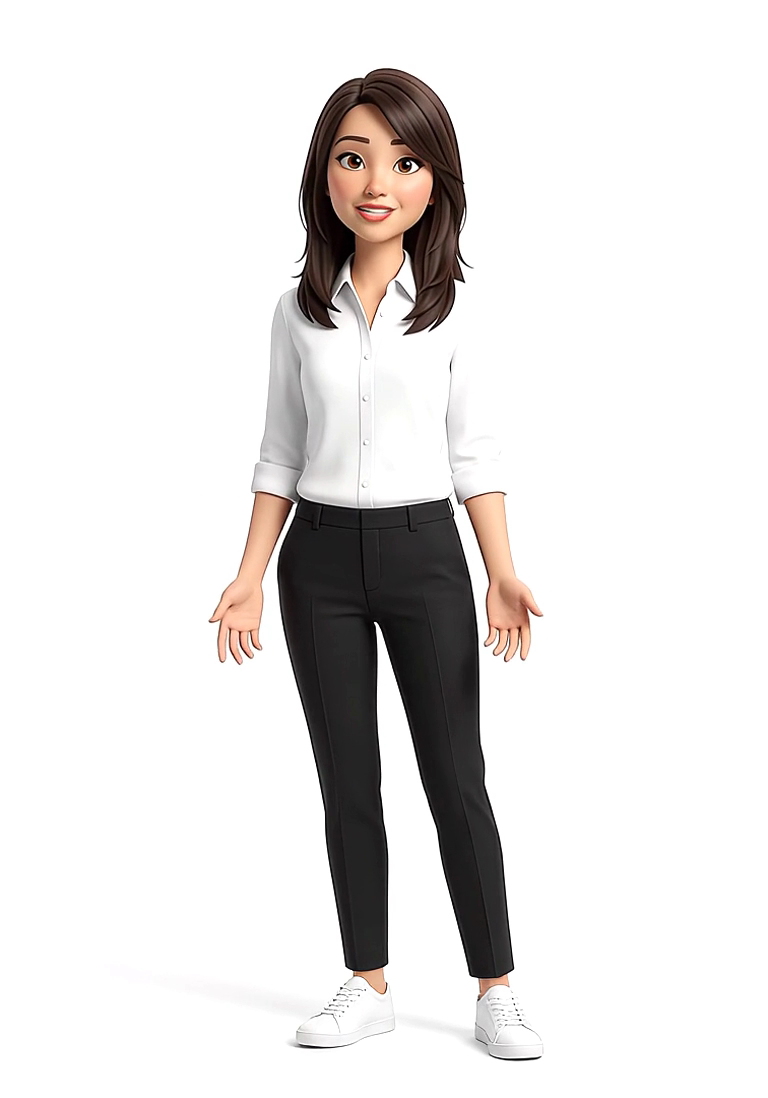
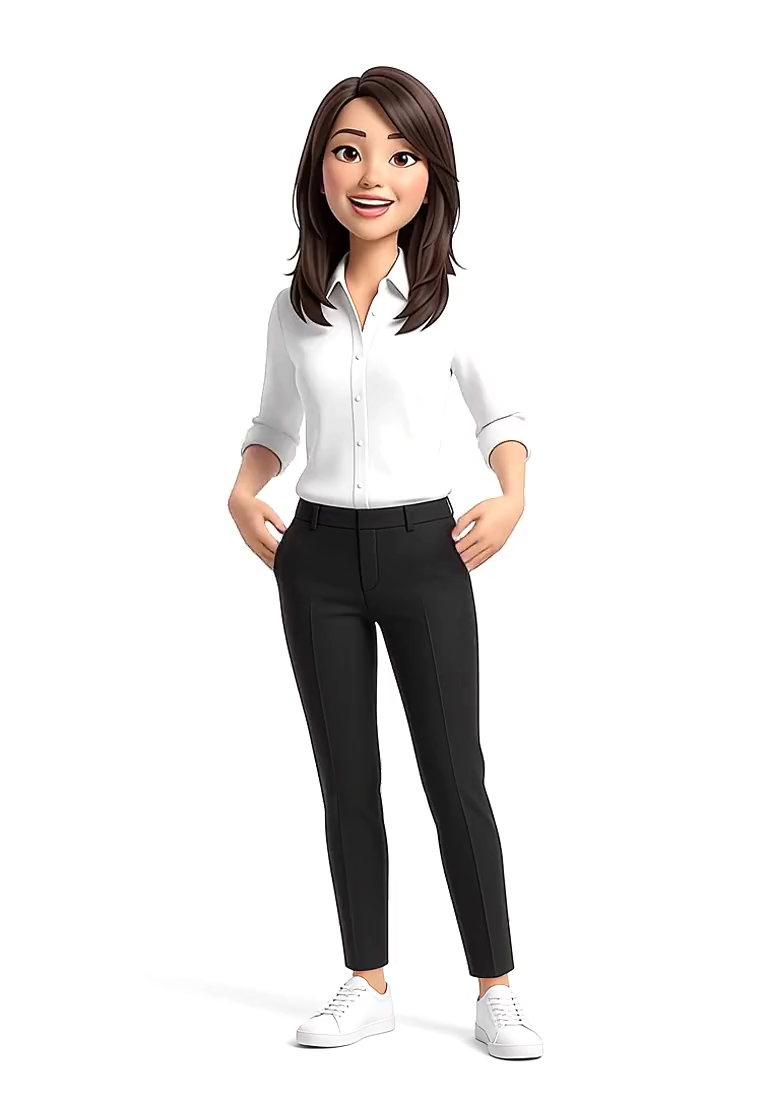
QA fixes: flip swap at 90deg, nav bar takes taps, matched poster, swipe a11y
- ID card: face visibility swaps at .1s (where the eased 1s flip crosses 90deg),
  not .45s, both directions. Removes the blank card in Chrome and the mirrored
  face on WebKit mid-flip (sampled at 50/100/150/250ms, flip + unflip).
- Mobile nav: .nav.is-scrolled gets pointer-events:auto so taps on the paper bar
  no longer fall through to content; backdrop alpha .84 -> .92.
- Hero poster (hero.webp + hero-poster.png) regenerated from mp4 frame 0 at
  768x1098, same filenames, white bg, so the poster->video swap no longer jumps.
- Numbers swipe row: #track gets role=region, aria-label, tabindex=0 and a focus
  ring in swipe mode; 'Swipe ->' hint only on (hover:none),(pointer:coarse);
  count-up starts at 5% visibility in swipe mode so peeking cards never sit on 0.

Changed region(s): [[0.2812, 0.0619, 0.625, 0.6193], [0.5625, 0.3097, 0.7188, 0.6503]]

diff --git a/assets/css/portfolio.css b/assets/css/portfolio.css
@@ -88,7 +88,7 @@ body.is-locked{overflow:hidden}
   .nav__pill{display:none}
   /* phones: the fixed nav gets a paper backdrop once scrolled so the mark, Menu pill and status-bar strip never print over content */
   .nav{transition:background-color .4s,box-shadow .4s,padding .4s var(--ease),-webkit-backdrop-filter .4s,backdrop-filter .4s}
-  .nav.is-scrolled{background:rgba(250,248,241,.84);-webkit-backdrop-filter:blur(14px) saturate(1.15);backdrop-filter:blur(14px) saturate(1.15);box-shadow:0 1px 0 var(--line);padding-bottom:10px;padding-top:calc(10px + env(safe-area-inset-top,0px))}
+  .nav.is-scrolled{pointer-events:auto;background:rgba(250,248,241,.92);-webkit-backdrop-filter:blur(14px) saturate(1.15);backdrop-filter:blur(14px) saturate(1.15);box-shadow:0 1px 0 var(--line);padding-bottom:10px;padding-top:calc(10px + env(safe-area-inset-top,0px))}
   .nav__menu{display:inline-flex;align-items:center}
 }
 
@@ -169,8 +169,8 @@ body.is-locked{overflow:hidden}
 .idcard__face::before{content:"";position:absolute;top:10px;left:50%;width:46px;height:8px;margin-left:-23px;border-radius:999px;background:var(--paper);box-shadow:inset 0 1px 2px rgba(0,0,0,.25);z-index:2}
 .idcard__back{transform:rotateY(180deg)}
 /* WebKit fallback: some Safari paths ignore backface-visibility inside the swinging lanyard and paint the mirrored back on top.
-   Swap face visibility at the flip midpoint (card edge-on) so the right face shows whatever the renderer does. */
-.idcard__front,.idcard__back{transition:visibility 0s .45s}
+   Swap face visibility where the eased 1s flip crosses 90deg (~0.1s with cubic-bezier(.16,1,.3,1)), both directions. */
+.idcard__front,.idcard__back{transition:visibility 0s .1s}
 .idcard__back,.idcard.is-flipped .idcard__front{visibility:hidden}
 .idcard.is-flipped .idcard__back{visibility:visible}
 .id__band{background:var(--deep);color:var(--paper);font:600 11px/1 var(--mono);letter-spacing:.22em;padding:28px 20px 14px;display:flex;justify-content:space-between}
@@ -437,7 +437,8 @@ body.is-locked{overflow:hidden}
 .numbers.is-static .num__bar{display:none}
 .numbers.is-swipe .num__pin{position:relative;height:auto;padding:var(--secpad) 0;gap:24px}
 .numbers.is-swipe .num__head{align-items:center}
-.numbers.is-swipe .num__head::after{content:"Swipe \2192";font:500 12px/1 var(--mono);letter-spacing:.1em;text-transform:uppercase;color:var(--mute)}
+@media (hover:none),(pointer:coarse){.numbers.is-swipe .num__head::after{content:"Swipe \2192";font:500 12px/1 var(--mono);letter-spacing:.1em;text-transform:uppercase;color:var(--mute)}}
+.numbers.is-swipe .track:focus-visible{outline:2px solid var(--deep);outline-offset:-2px;border-radius:28px}
 .numbers.is-swipe .num__bar{width:min(180px,40vw)}
 .numbers.is-swipe .track{width:auto;overflow-x:auto;overflow-y:hidden;overscroll-behavior-x:contain;scroll-snap-type:x mandatory;scroll-padding-inline:var(--gutter);scrollbar-width:none;transform:none!important;padding-block:16px 28px}
 .numbers.is-swipe .track::-webkit-scrollbar{display:none}

diff --git a/assets/js/portfolio.js b/assets/js/portfolio.js
@@ -590,6 +590,9 @@
     pinned = !RM.matches && !swipe;
     numSec.classList.toggle('is-static', RM.matches);
     numSec.classList.toggle('is-swipe', swipe);
+    /* swipe row is keyboard-scrollable and announced as a region */
+    if (swipe) { track.setAttribute('role', 'region'); track.setAttribute('aria-label', 'Numbers, swipe to see more'); track.tabIndex = 0; }
+    else { track.removeAttribute('role'); track.removeAttribute('aria-label'); track.removeAttribute('tabindex'); }
     if (!pinned) { numSec.style.height = ''; track.style.transform = ''; if (swipe) swipeBar(); return; }
     travel = Math.max(0, track.scrollWidth - window.innerWidth);
     numSec.style.height = (window.innerHeight + travel) + 'px';
@@ -612,7 +615,7 @@
     ncards.forEach(function (c) { var el = $('.cnt', c); if (el) el.textContent = '0'; });
     var co = new IntersectionObserver(function (en) {
       en.forEach(function (e) { if (e.isIntersecting) { countUp(e.target); co.unobserve(e.target); } });
-    }, { threshold: 0.5 });
+    }, { threshold: SWIPE.matches ? 0.05 : 0.5 }); /* swipe row: start as soon as a card peeks, so the peek never sits on '0' */
     ncards.forEach(function (c) { co.observe(c); });
   } else ncards.forEach(countUp);
 
